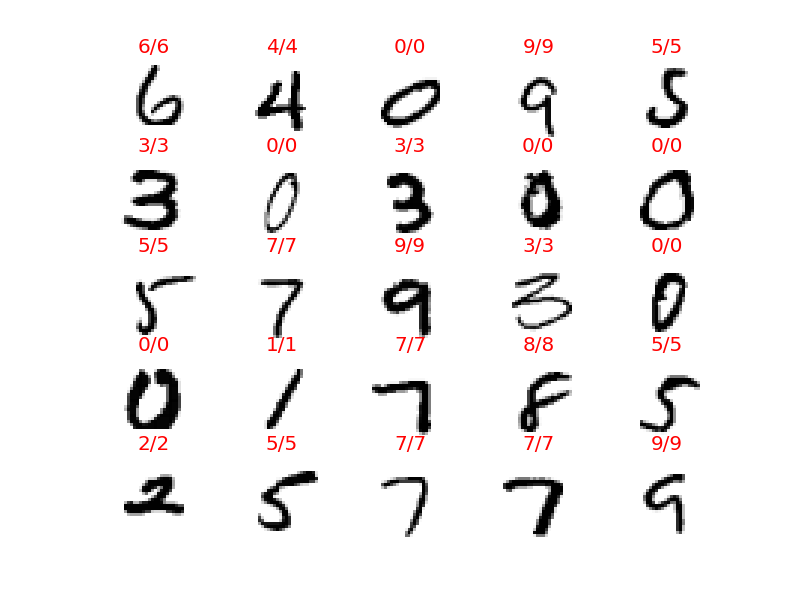
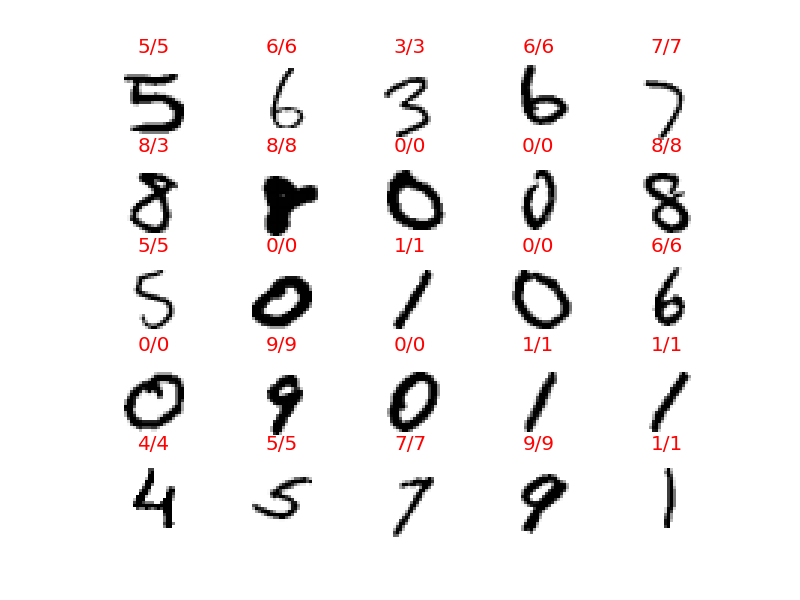
Modified CNN for performance improvement

diff --git a/MNIST/TensorFlow_CNN_LeNet5.py b/MNIST/TensorFlow_CNN_LeNet5.py
@@ -48,6 +48,7 @@ if __name__ == '__main__':
 	_num_steps = 3001
 	#_num_steps = 11
 	_batch_size = 128
+	_dummy_batch_labeldata = np.zeros((_batch_size,_num_labels))
 	_patch_size = 5
 	_depth = 16
 	_num_hidden = 64
@@ -59,9 +60,6 @@ if __name__ == '__main__':
 		_tf_X = tf.placeholder(tf.float32, shape=(_batch_size, _image_size, _image_size, 1))
 		_tf_y = tf.placeholder(tf.float32, shape=(_batch_size, _num_labels))
 
-		_tf_X_valid = tf.constant(_X_valid_norm, dtype=tf.float32)
-		_tf_X_test = tf.constant(_X_test_norm, dtype=tf.float32)
-
 		_weights1 = tf.Variable(tf.truncated_normal([_patch_size, _patch_size, 1, _depth], stddev=0.1), dtype=tf.float32)
 		_biases1 = tf.Variable(tf.zeros([_depth]), dtype=tf.float32)
 		_weights2 = tf.Variable(tf.truncated_normal([_patch_size, _patch_size, _depth, _depth], stddev=0.1), dtype=tf.float32)
@@ -71,8 +69,8 @@ if __name__ == '__main__':
 		_weights4 = tf.Variable(tf.truncated_normal([_num_hidden, _num_labels], stddev=0.1), dtype=tf.float32)
 		_biases4 = tf.Variable(tf.constant(1.0, shape=[_num_labels]), dtype=tf.float32)
 
-		def model(_data, _tf_keep_prob):
-			_conv1 = tf.nn.relu(tf.nn.conv2d(_data,  _weights1, strides=[1,1,1,1], padding='SAME') + _biases1)
+		def model():
+			_conv1 = tf.nn.relu(tf.nn.conv2d(_tf_X,  _weights1, strides=[1,1,1,1], padding='SAME') + _biases1)
 			_pool1 = tf.nn.max_pool(_conv1, ksize=[1,2,2,1], strides=[1,2,2,1], padding='SAME')
 			_conv2 = tf.nn.relu(tf.nn.conv2d(_pool1, _weights2, strides=[1,1,1,1], padding='SAME') + _biases2)
 			_pool2 = tf.nn.max_pool(_conv2, ksize=[1,2,2,1], strides=[1,2,2,1], padding='SAME')
@@ -81,22 +79,25 @@ if __name__ == '__main__':
 			_fully_connect1 = tf.nn.dropout(tf.nn.relu(tf.matmul(_pool2_flat, _weights3)+_biases3), _tf_keep_prob)
 			_read_out = tf.matmul(_fully_connect1, _weights4)+_biases4
 			return _read_out
-		def predict(_data):
-			return tf.nn.softmax(model(_data, 1.0))
+		def predict():
+			return tf.nn.softmax(model())
+		def num_of_errors(_num_of_data):
+			_predicts = tf.slice(tf.argmax(tf.nn.softmax(model()),1), [0], [_num_of_data])
+			_labels = tf.slice(tf.argmax(_tf_y, 1), [0], [_num_of_data])
+			return tf.reduce_sum(tf.cast(tf.not_equal(_predicts, _labels), tf.int32))
 
-		_tf_logits = model(_tf_X, _tf_keep_prob)
+		_tf_logits = model()
 		_tf_loss = tf.reduce_mean(tf.nn.softmax_cross_entropy_with_logits(_tf_logits, _tf_y))
 		_tf_loss_reg = _tf_loss + 0.5 * _tf_lambda * (tf.nn.l2_loss(_weights1) + tf.nn.l2_loss(_weights2) + tf.nn.l2_loss(_weights3) + tf.nn.l2_loss(_weights4))
 		_tf_optimizer = tf.train.AdagradOptimizer(_tf_alpha).minimize(_tf_loss_reg)
 		_tf_prediction = tf.nn.softmax(_tf_logits)
 
-	def accuracy(_predictions, _labels):
-		return ( np.sum(np.argmax(_predictions, 1) == np.argmax(_labels, 1)) / float(_predictions.shape[0]) )
-
 	#***Learning****************************
 	print '*****************************'
 	print 'Start Learning'
 	_time_start = time.time()
+	#_alpha_list = np.array([0.05, 5])
+	#_lambda_list = np.array([0.0000001, 10])
 	_alpha_list = np.logspace(-2,1,7)
 	_lambda_list = np.logspace(-5,-1,9)
 	_scores = np.ndarray( (len(_alpha_list), len(_lambda_list) ), dtype=float)
@@ -110,10 +111,23 @@ if __name__ == '__main__':
 					_batch_labels	= _y_train[_offset:(_offset + _batch_size)]
 					_feed_dict = {_tf_X:_batch_data, _tf_y:_batch_labels, _tf_lambda:_lambda, _tf_alpha:_alpha, _tf_keep_prob:0.5}
 					_, _l, _predictions = _session.run([_tf_optimizer, _tf_loss_reg, _tf_prediction], feed_dict=_feed_dict)
-					_predict_valid = _session.run(predict(_tf_X_valid))
-					_accuracy_valid = accuracy(_predict_valid, _y_valid)
-					_scores[_al_index, _lam_index] = _accuracy_valid
-			print 'alpha='+str(_alpha)+',\tlambda='+str(_lambda)+',\tValidAccuracy='+str(_accuracy_valid)
+				_num_of_errors = 0
+				for _step in range(int((_num_valid_dataset+_batch_size-1)/_batch_size)):
+					_offset = _step * _batch_size
+					_batch_data		= _X_valid_norm[_offset:(_offset + _batch_size), :]
+					_batch_labels	= _y_valid[_offset:(_offset + _batch_size)]
+					_real_batch_size = len(_batch_data)
+					if _real_batch_size != _batch_size:
+						_padding = np.zeros((_batch_size-_real_batch_size, _image_size,_image_size, 1))
+						_batch_data = np.vstack((_batch_data, _padding))
+						_padding = np.zeros((_batch_size-_real_batch_size, _num_labels))
+						_batch_labels = np.vstack((_batch_labels, _padding))
+					_feed_dict = {_tf_X:_batch_data, _tf_y:_batch_labels, _tf_keep_prob:1}
+					_current_num_of_errors = _session.run(num_of_errors(_real_batch_size), feed_dict=_feed_dict)
+					_num_of_errors = _num_of_errors + _current_num_of_errors
+				_accuracy_valid = float(_num_valid_dataset - _num_of_errors) / _num_valid_dataset
+				_scores[_al_index, _lam_index] = _accuracy_valid
+			print 'alpha='+str(_alpha)+',\tlambda='+str(_lambda)+',\tValidAccuracy='+str(_accuracy_valid)+',\tNum_of_errors='+str(_num_of_errors)+',\tNum_of_points='+str(_num_valid_dataset)
 
 	_best_accuracy_valid = None
 	_best_alpha = None
@@ -133,8 +147,25 @@ if __name__ == '__main__':
 			_batch_labels	= _y_train[_offset:(_offset + _batch_size)]
 			_feed_dict = {_tf_X:_batch_data, _tf_y:_batch_labels, _tf_lambda:_best_lambda, _tf_alpha:_best_alpha, _tf_keep_prob:0.5}
 			_, _l, _predictions = _session.run([_tf_optimizer, _tf_loss_reg, _tf_prediction], feed_dict=_feed_dict)
-		_predict_test = _session.run(predict(_tf_X_test))
-		_accuracy_test = accuracy(_predict_test, _y_test)
+		_num_of_errors = 0
+		for _step in range(int((_num_test_dataset+_batch_size-1)/_batch_size)):
+			_offset = _step * _batch_size
+			_batch_data		= _X_test_norm[_offset:(_offset + _batch_size), :]
+			_batch_labels	= _y_test[_offset:(_offset + _batch_size)]
+			_real_batch_size = len(_batch_data)
+			if _real_batch_size != _batch_size:
+				_padding = np.zeros((_batch_size-_real_batch_size, _image_size,_image_size, 1))
+				_batch_data = np.vstack((_batch_data, _padding))
+				_padding = np.zeros((_batch_size-_real_batch_size, _num_labels))
+				_batch_labels = np.vstack((_batch_labels, _padding))
+			_feed_dict = {_tf_X:_batch_data, _tf_y:_batch_labels, _tf_keep_prob:1}
+			_current_num_of_errors = _session.run(num_of_errors(_real_batch_size), feed_dict=_feed_dict)
+			_num_of_errors = _num_of_errors + _current_num_of_errors
+		_accuracy_test = float(_num_test_dataset - _num_of_errors) / _num_test_dataset
+		_p = np.random.random_integers(0, len(_X_test), _batch_size)
+		_batch_data = _X_test_norm[_p]
+		_feed_dict = {_tf_X:_batch_data, _tf_keep_prob:1}
+		_batch_predict = _session.run(predict(), feed_dict=_feed_dict)
 	_time_end = time.time()
 	print 'End Learning'
 	print '*****************************'
@@ -164,11 +195,13 @@ if __name__ == '__main__':
 	plt.legend(loc='lower right')
 	plt.show()
 
-	_p = np.random.random_integers(0, len(_X_test), 25)
-	_samples = np.array(list(zip(_X_test.reshape(-1,_image_size,_image_size),_y_test,_predict_test)))[_p]
-	for _index, (_data, _y_val_test, _predict_test_val) in enumerate(_samples):
-		_label = np.argmax(_y_val_test)
-		_predicted_label = np.argmax(_predict_test_val)
+	_batch_predict		= _batch_predict[:25]
+	_batch_data_origin	= _X_test[_p[:25]]
+	_batch_labels		= _y_test[_p[:25]]
+	for _index in range(25):
+		_label				= np.argmax(_batch_labels[_index])
+		_predicted_label	= np.argmax(_batch_predict[_index])
+		_data = _batch_data_origin[_index].ravel().reshape(_image_size,_image_size)
 		plt.subplot(5,5,_index+1)
 		plt.axis('off')
 		plt.imshow(_data, cmap=cm.gray_r, interpolation='nearest')

diff --git a/MNIST/README.md b/MNIST/README.md
@@ -2,8 +2,8 @@ Copyright (C) 2016 Daisuke Hashimoto. All Rights Reserved.
 # MNIST
 ## Summary
 * Convolutional Neural Network (LeNet-5)
-  * time = 32min (GPU)
-  * Test Error Rate = 0.0193571428571
+  * time = 310min (GPU)
+  * Test Error Rate = 0.017
 * Neural Network (3 layer)
   * time = 48min (GPU)
   * Test Error Rate = 0.0356428571429
@@ -29,21 +29,22 @@ Copyright (C) 2016 Daisuke Hashimoto. All Rights Reserved.
 ## Convolutional Neural Network: LeNet-5 (Tensor Flow)
 ### Lerning Condition
 * number of features: 28x28 = 784
-* number of training sets: 42000
-* number of validation sets: 14000
-* number of test sets: 14000
+* number of training sets: 56000
+* number of validation sets: 7000
+* number of test sets: 7000
 * dropout: 0.5
 * Grid Search
   * Learning Rate: 7 patterns
+  * Lambda: 9 patterns
 
 ### Results
 * Validation Results
-  * Time of training(GPU) = 1915sec (32min)
-  * Best Score=0.981142857143
-  * Best Parm={'alpha':0.1}
+  * Time of training(GPU) = 18614sec (310min)
+  * Best Score=0.988285714286
+  * Best Parm={'alpha':0.1, 'lambda':0.000316227766017}
 * Test Results
-  * Accuracy=0.980642857143
-  * Error Rate=0.0193571428571
+  * Accuracy=0.983
+  * Error Rate=0.017
 
 ![Accuracy CNN Lenet-5](TensorFlow_CNN_LeNet5_accuracy.png)
 
